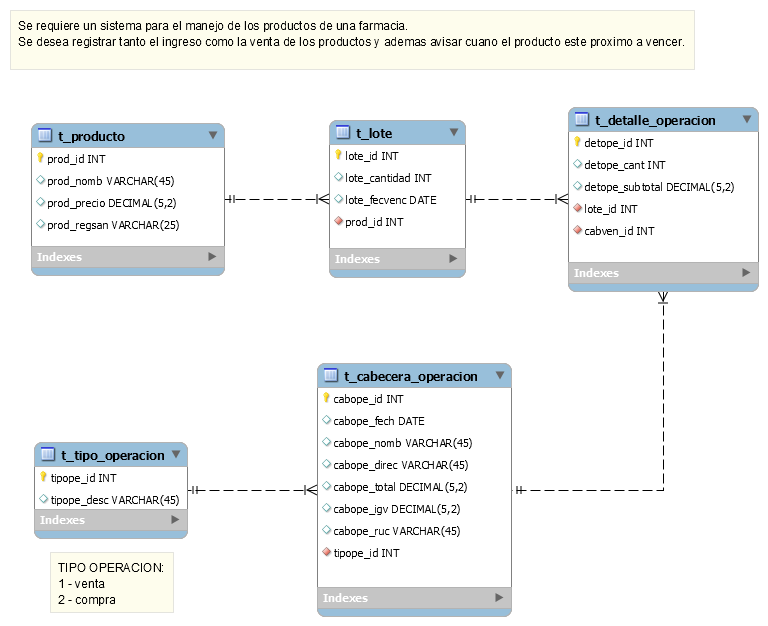
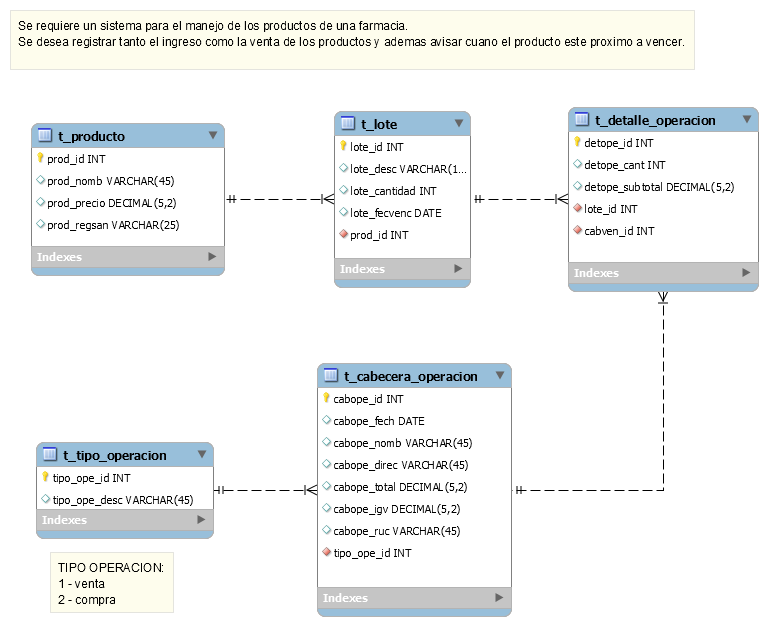
primer controlador

diff --git a/Semana6/Farmacia/src/config/Sequelize.js b/Semana6/Farmacia/src/config/Sequelize.js
@@ -1,9 +1,18 @@
 // http://sequelize.org/master/manual/getting-started.html
 // npm install mysql2
 
-const Sequelize = require('sequelize');
+const { Sequelize } = require('sequelize');
 const productoModel = require('../models/ProductoModel');
+const tipoOperacionModel = require('../models/TipoOperacionModel');
+const loteModel = require('../models/LoteModel');
+const cabeceraOperacionModel = require('../models/CabeceraOperacionModel');
+const detalleOperacionModel = require('../models/DetalleOperacionModel');
 
+// 1ra forma de conexion a BD
+// https://sequelize.readthedocs.io/en/1.7.0/docs/usage/
+// const conexion = new Sequelize('mysql://usuario:password@host:puerto/base_datos');
+
+// 2da forma de conexion a BD
 const conexion = new Sequelize(
     // base_datos, usuario, contraseña
     "farmaciaSequelize", "root", "123456", {
@@ -11,6 +20,7 @@ const conexion = new Sequelize(
     port: 3306,
     dialect: "mysql",
     timezone: "-05:00",  // para que los campos de auditoria se creen con la hora local
+    logging: false, // sirve para que no muestre en la terminal todas las consultas SQL que se ejecutan internamente
 
     // opciones extras
     dialectOptions: {
@@ -22,8 +32,34 @@ const conexion = new Sequelize(
 
 // Aca se crean las tablas en la BD
 const Producto = productoModel(conexion);
+const TipoOperacion = tipoOperacionModel(conexion);
+const Lote = loteModel(conexion);
+const CabeceraOperacion = cabeceraOperacionModel(conexion);
+const DetalleOperacion = detalleOperacionModel(conexion);
+
+// Una vez definidos todos los modelos, se procede a crear las relaciones
+// Producto tiene muchos Lotes
+Producto.hasMany(Lote, { foreignKey: 'prod_id' });
+
+// para usar las relaciones inversas ahora hacemos lo contrario
+// Lote pertenece a Producto
+Lote.belongsTo(Producto, { foreignKey: 'prod_id' });
+
+TipoOperacion.hasMany(CabeceraOperacion, { foreignKey: 'tipo_ope_id' });
+CabeceraOperacion.belongsTo(TipoOperacion, { foreignKey: 'tipo_ope_id' });
+
+Lote.hasMany(DetalleOperacion, { foreignKey: 'lote_id' });
+DetalleOperacion.belongsTo(Lote, { foreignKey: 'lote_id' });
+
+CabeceraOperacion.hasMany(DetalleOperacion, { foreignKey: 'cab_ope_id' });
+DetalleOperacion.belongsTo(CabeceraOperacion, { foreignKey: 'cab_ope_id' });
 
 
 module.exports = {
-    conexion
+    conexion,
+    Producto,
+    Lote,
+    DetalleOperacion,
+    CabeceraOperacion,
+    TipoOperacion
 }

diff --git a/Semana6/Farmacia/src/models/CabeceraOperacionModel.js b/Semana6/Farmacia/src/models/CabeceraOperacionModel.js
@@ -1,0 +1,58 @@
+const { DataTypes } = require('sequelize');
+const Sequelize = require('sequelize');
+// Sequelize.NOW
+
+const cabecera_operacion_model = (conexion) => {
+    let cabecera = conexion.define('cabecera_operaciones', {
+        cabeceraOperacionId: {
+            primaryKey: true,
+            autoIncrement: true,
+            allowNull: false,
+            type: DataTypes.INTEGER,
+            field: 'cab_ope_id',
+        },
+        cabeceraOperacionFecha: { // que su valor por defecto sea el dia de hoy
+            type: DataTypes.DATE,
+            field: 'cab_ope_fech',
+            defaultValue: Sequelize.NOW
+        }, 
+        cabeceraOperacionNombre: { // minimo 5 palabras y que solo sea letras
+            type: DataTypes.STRING(45),
+            field: 'cab_ope_nomb',
+            validate: {
+                len: [5,45],
+                isAlpha: true
+            }
+        }, 
+        cabeceraOperaciondireccion: { // que solo sea alfanumerico
+            type: DataTypes.STRING(45),
+            field: 'cab_ope_direc',
+            validate: {
+                isAlphanumeric: true
+            }
+        }, 
+        cabeceraOperacionTotal: { // minimo 25 y maximo 1000
+            type: DataTypes.DECIMAL(5,2),
+            field: 'cab_ope_total',
+            validate: {
+                min: 25,
+                max: 1000
+            }
+        }, 
+        cabeceraOperacionIGV: {
+            type: DataTypes.DECIMAL(5,2),
+            field: 'cab_ope_igv',
+        },
+        cabeceraOperacionRUC: {
+            type: DataTypes.STRING(11),
+            field: 'cab_ope_ruc',
+        }
+    }, {
+        tableName: 't_cabecera_operacion',
+        timestamps: false,
+    });
+
+    return cabecera;
+}
+
+module.exports = cabecera_operacion_model;

diff --git a/Semana6/Farmacia/src/models/ProductoModel.js b/Semana6/Farmacia/src/models/ProductoModel.js
@@ -1,5 +1,6 @@
 // DataTypes => indicar que valor va a recibir cierta columna
 // http://sequelize.org/master/manual/model-basics.html#data-types
+// validaciones : https://sequelize.org/master/manual/validations-and-constraints.html#per-attribute-validations
 const { DataTypes } = require('sequelize');
 
 const producto_model = (conexion) => {
@@ -19,11 +20,19 @@ const producto_model = (conexion) => {
         productoNombre: {
             type: DataTypes.STRING(45), // si no coloco la longitud en STRING, va a ser de longitud 1, osea VARCHAR(1)
             field: 'prod_nomb',
-            unique: true
+            unique: true,
+            validate: {
+                len: [1,20],
+                isAlphanumeric: true
+            }
         },
         productoPrecio: {
             type: DataTypes.DECIMAL(5, 2),
-            field: 'prod_precio'
+            field: 'prod_precio',
+            validate: {
+                min: 1,
+                max: 1000
+            }
         },
         productoRegistroSanitario: {
             type: DataTypes.STRING(25),

diff --git a/Semana6/Farmacia/src/models/LoteModel.js b/Semana6/Farmacia/src/models/LoteModel.js
@@ -1,0 +1,38 @@
+const { DataTypes } = require('sequelize');
+
+const lote_model = (conexion) => {
+    let lote = conexion.define('lotes', {
+        loteId: {
+            type: DataTypes.INTEGER,
+            primaryKey: true,
+            field: 'lote_id',
+            autoIncrement: true,
+            allowNull: false
+        },
+        loteDescripcion: {
+            type: DataTypes.STRING(15),
+            unique: true,
+            field: 'lote_desc'
+        },
+        loteCantidad: {
+            type: DataTypes.INTEGER,
+            field: 'lote_cantidad'
+        },
+        loteFechaVencimiento: {
+            type: DataTypes.DATEONLY,
+            field: 'lote_fecvenc',
+            allowNull: false,
+            defaultValue: "2021-12-31",
+            validate: {
+                isAfter: "2021-01-01",
+                isBefore: "2025-12-31"
+            }
+        }
+    }, {
+        tableName: 't_lote'
+    });
+
+    return lote;
+}
+
+module.exports = lote_model;

diff --git a/Semana6/Farmacia/src/models/TipoOperacionModel.js b/Semana6/Farmacia/src/models/TipoOperacionModel.js
@@ -1,0 +1,32 @@
+const { DataTypes } = require('sequelize');
+
+const tipo_operacion_model = (conexion) => {
+    let tipo_operacion = conexion.define('tipo_operaciones', {
+        tipoOperacionId: {
+            primaryKey: true,
+            autoIncrement: true,
+            type: DataTypes.INTEGER,
+            field: 'tipo_ope_id',
+            allowNull: false
+        },
+        tipoOperacionDescripcion: {
+            type: DataTypes.STRING(45),
+            field: 'tipo_ope_desc',
+            allowNull: false,
+            unique: true,
+            validate: {
+                isAlpha: true
+            }
+        }
+    }, {
+        tableName: 't_tipo_ope',
+        timestamps: true,
+        createdAt: 'fecha_creacion',
+        updatedAt: 'fecha_actualizacion'
+        // updatedAt: false   para que no se cree dicha columna
+    });
+
+    return tipo_operacion;
+}
+
+module.exports = tipo_operacion_model;

diff --git a/Semana6/Farmacia/src/models/DetalleOperacionModel.js b/Semana6/Farmacia/src/models/DetalleOperacionModel.js
@@ -1,0 +1,30 @@
+const { DataTypes } = require('sequelize');
+
+const detalle_operacion_model = (conexion) => {
+    let detalle_operacion = conexion.define('detalle_operaciones', {
+        detalleoperacionId: {
+            primaryKey: true,
+            autoIncrement: true,
+            type: DataTypes.INTEGER,
+            field: 'det_ope_id',
+            allowNull: false
+        },
+        detalleOperacionCantidad: {
+            type: DataTypes.INTEGER,
+            field: 'det_ope_cant',
+            allowNull: false
+        },
+        detalleOperacionSubTotal: {
+            type: DataTypes.DECIMAL(5,2),
+            field: 'det_ope_subtotal',
+            allowNull: false
+        }
+    }, {
+        tableName: 't_detalle_operacion',
+        timestamps: false,
+    });
+
+    return detalle_operacion;
+ }
+
+ module.exports = detalle_operacion_model;

diff --git a/Semana6/Farmacia/src/config/Server.js b/Semana6/Farmacia/src/config/Server.js
@@ -54,7 +54,8 @@ module.exports = class Server {
             // alter: true => veririfica que los modelos esten igual que las tablas.
             // Si hay algun cambio, solamente hara ese cambio, mas no reseteara todas las tablas y mucho menos habra perdida de informacion
             // sus valores por defecto en ambos casos son false.
-            conexion.sync({ force: true, alter: true }).then(() => {
+            // conexion.sync({ force: true, alter: true }) la primera vez
+            conexion.sync({ force: true, alter: false }).then(() => {
                 console.log('Base de datos sincronizada correctamente');
             });
         })

diff --git a/Semana6/Farmacia/src/controllers/ProductoController.js b/Semana6/Farmacia/src/controllers/ProductoController.js
@@ -1,0 +1,11 @@
+const { Producto } = require('../config/Sequelize');
+
+const crearProducto = (req, res) => {
+    return res.satus(201).json({
+        ok: true
+    });
+}
+
+module.exports = {
+    crearProducto
+}
